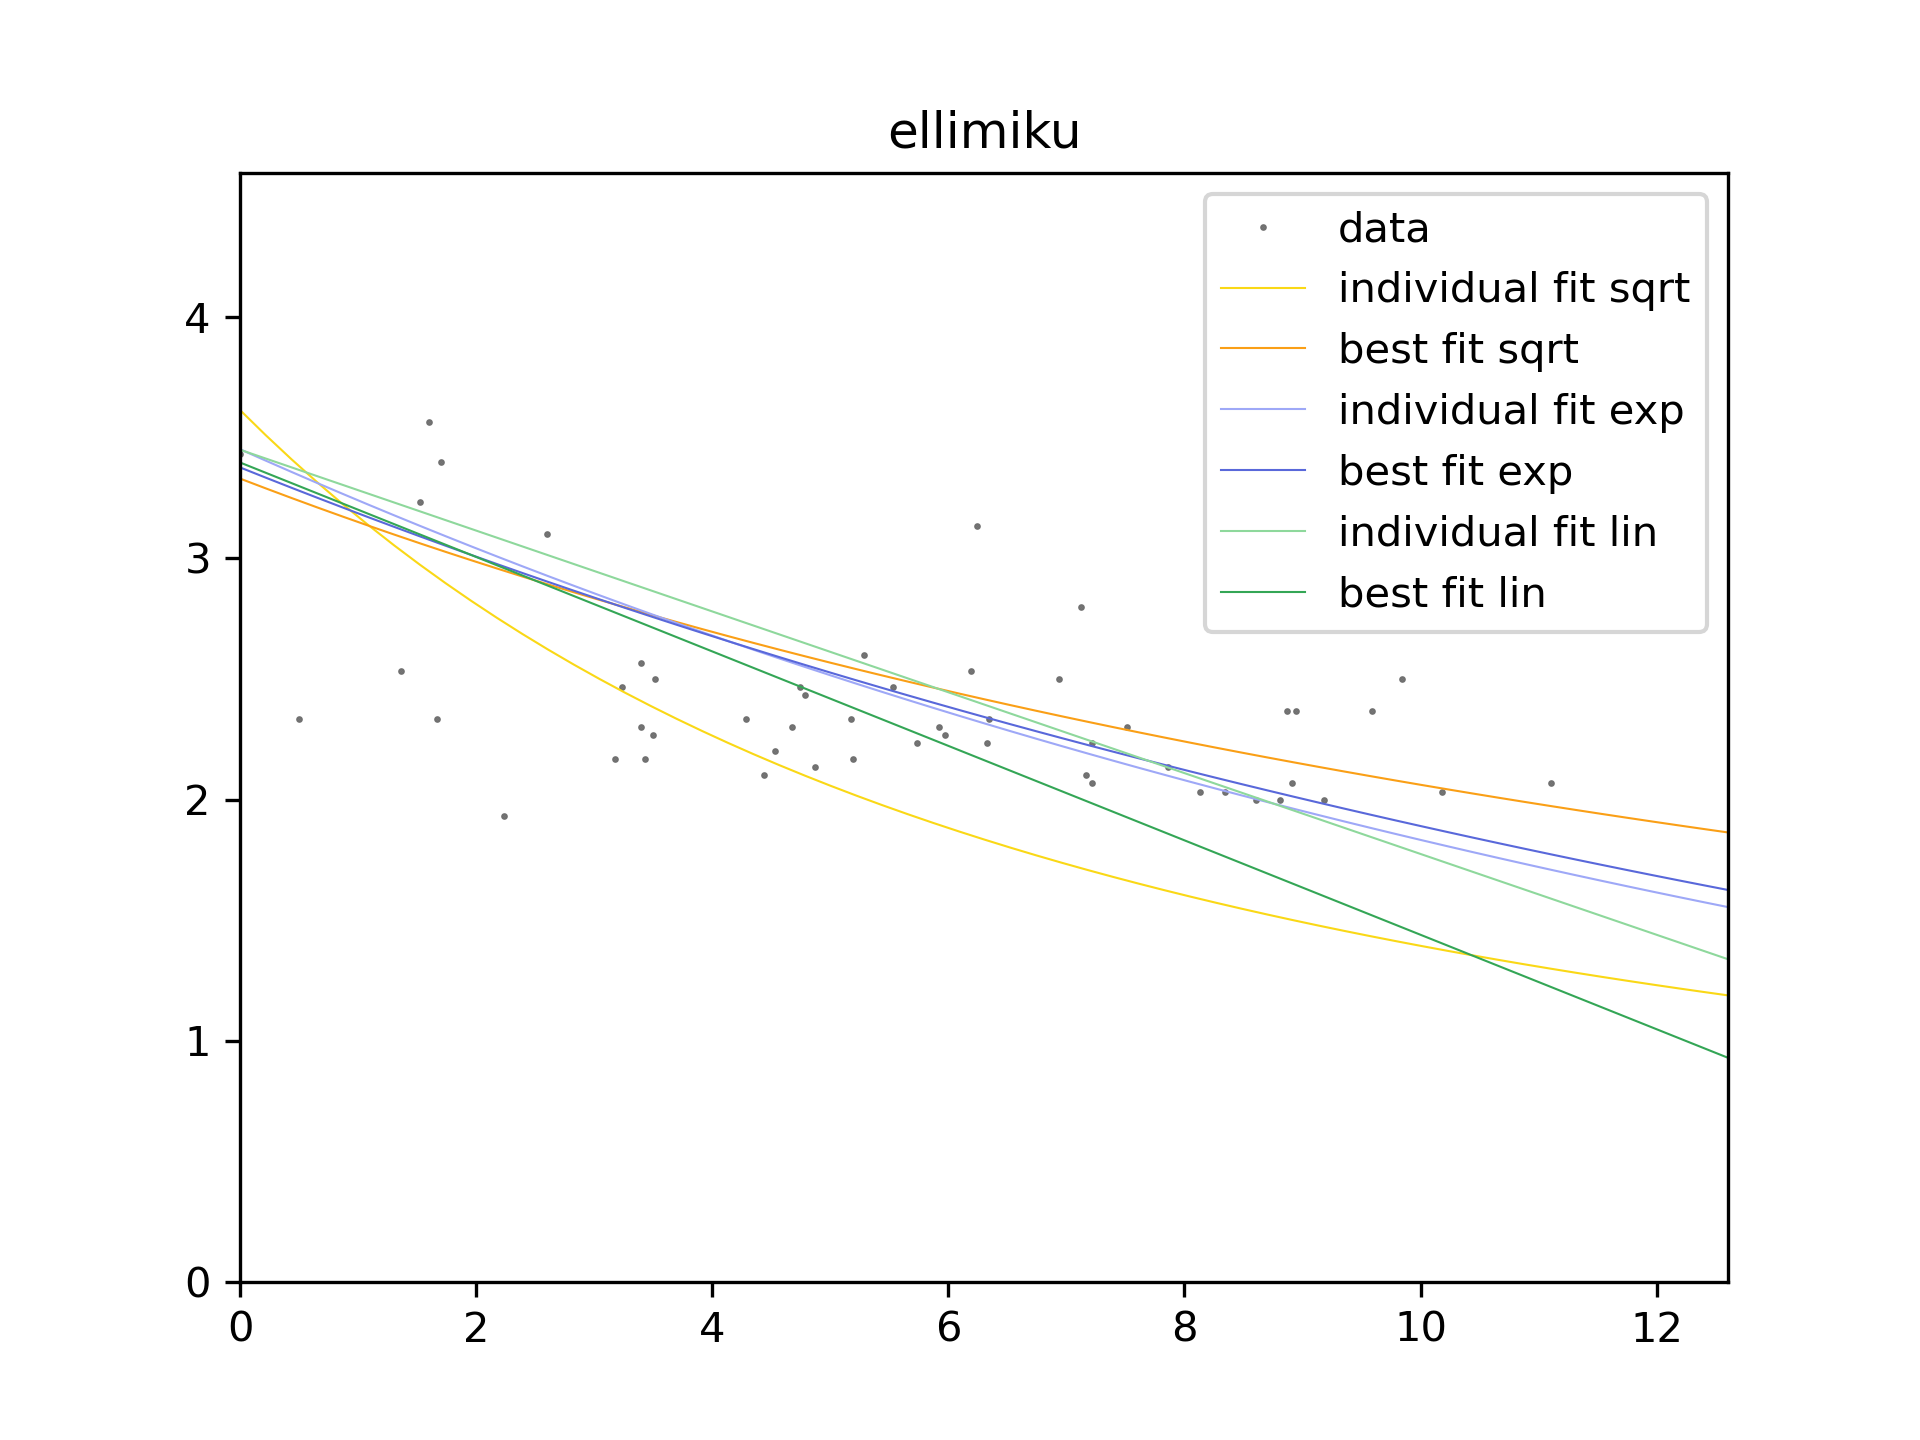
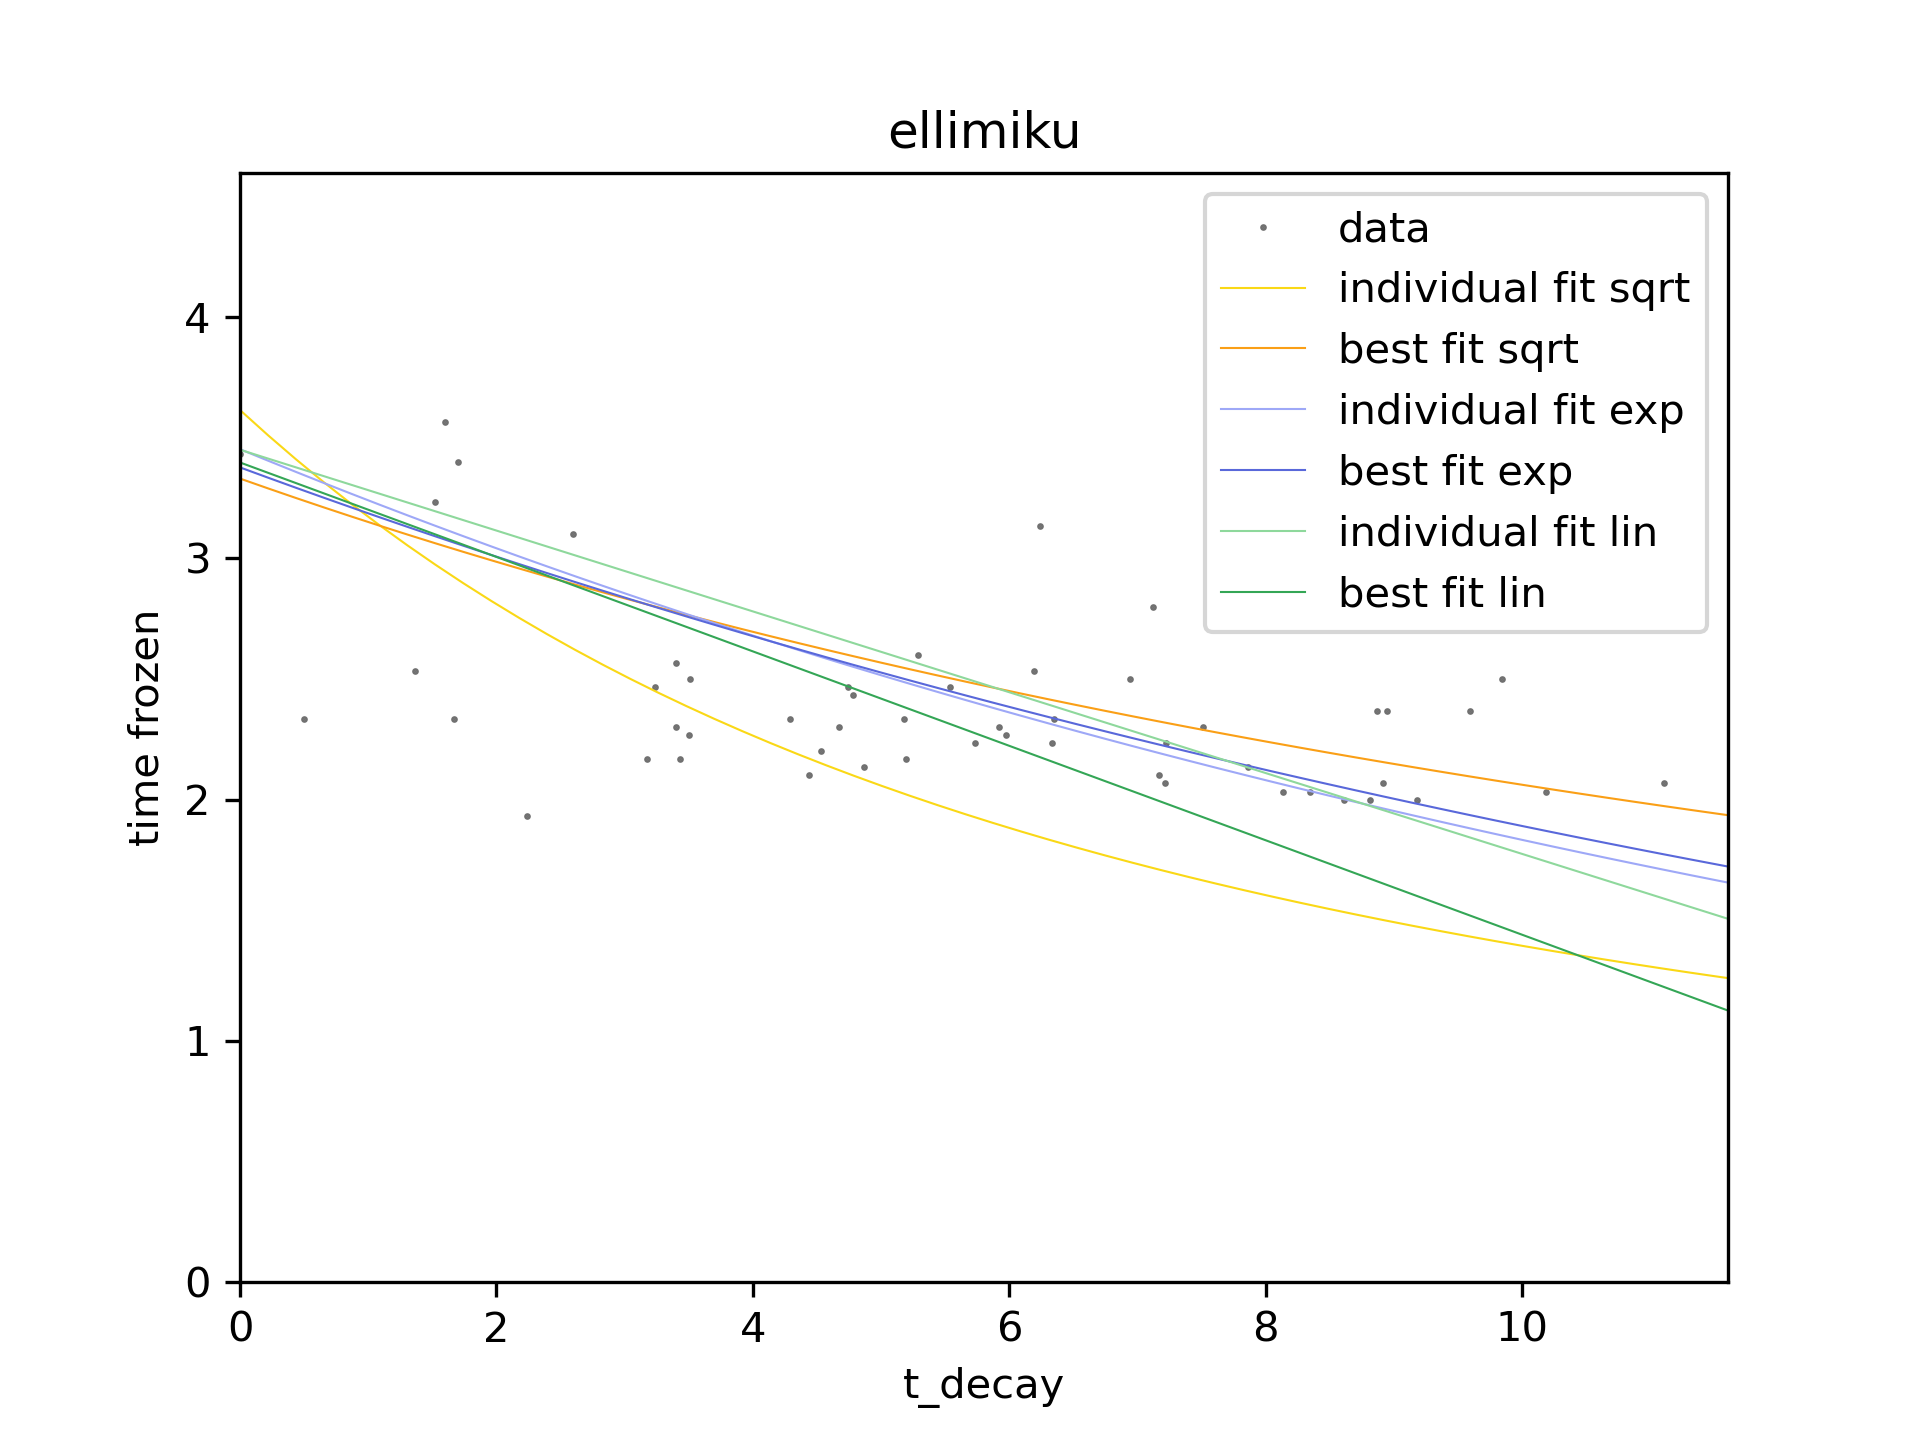
1.3 - fixed plots

diff --git a/main.py b/main.py
@@ -498,7 +498,7 @@ for ax in (ax1, ax2):
     j = 0
     for v in range(0, 2):
         ax.plot(freeze_data_dfs[v]['t_decay'], freeze_data_dfs[v]['t_frozen'], linestyle="none", marker=".", markersize=1.2,
-                label="v{0} data - {1}".format(v, aura_arr[j]), color=colors_arr[j + 2])
+                label="Kourinn v{0} data - {1}".format(v, aura_arr[j]), color=colors_arr[j + 2])
         j += 1
     ax.plot(freeze_data_isu['t_decay'], freeze_data_isu['t_frozen'], linestyle="none",
             marker=".", markersize=1.2,
@@ -524,7 +524,7 @@ plt.close(fig2)
 
 data_series_plot = (freeze_data_ellimiku_filtered, freeze_data_phaZ, *freeze_data_dfs, freeze_data_isu,
                     freeze_data_aloy)
-labels = ("ellimiku", "phaZ_swirl", "v1", "v3", "isu", "phaZ_aloy")
+labels = ("ellimiku", "phaZ_swirl", "Kourinn_v1", "Kourinn_v3", "isu", "phaZ_aloy")
 
 
 for k in range(0, number):
@@ -540,7 +540,9 @@ for k in range(0, number):
     ax.plot(t_decay_plot[k], y_ranges_best_fit_lin[k], linewidth=0.5, label="best fit lin", color="#34A656")
     # set sensible y limits
     ax.set_ylim(0, data_series_plot[k].max().iloc[2] + 1)
-    ax.set_xlim(0, t_decay_data.max() + 1.5)
+    ax.set_xlim(0, t_decay_data.max() + 0.5)
+    ax.set_ylabel("time frozen")
+    ax.set_xlabel("t_decay")
     plt.legend(loc="upper right")
     plt.title(labels[k])
     plt.savefig("{0}.png".format(labels[k]), dpi=300)
